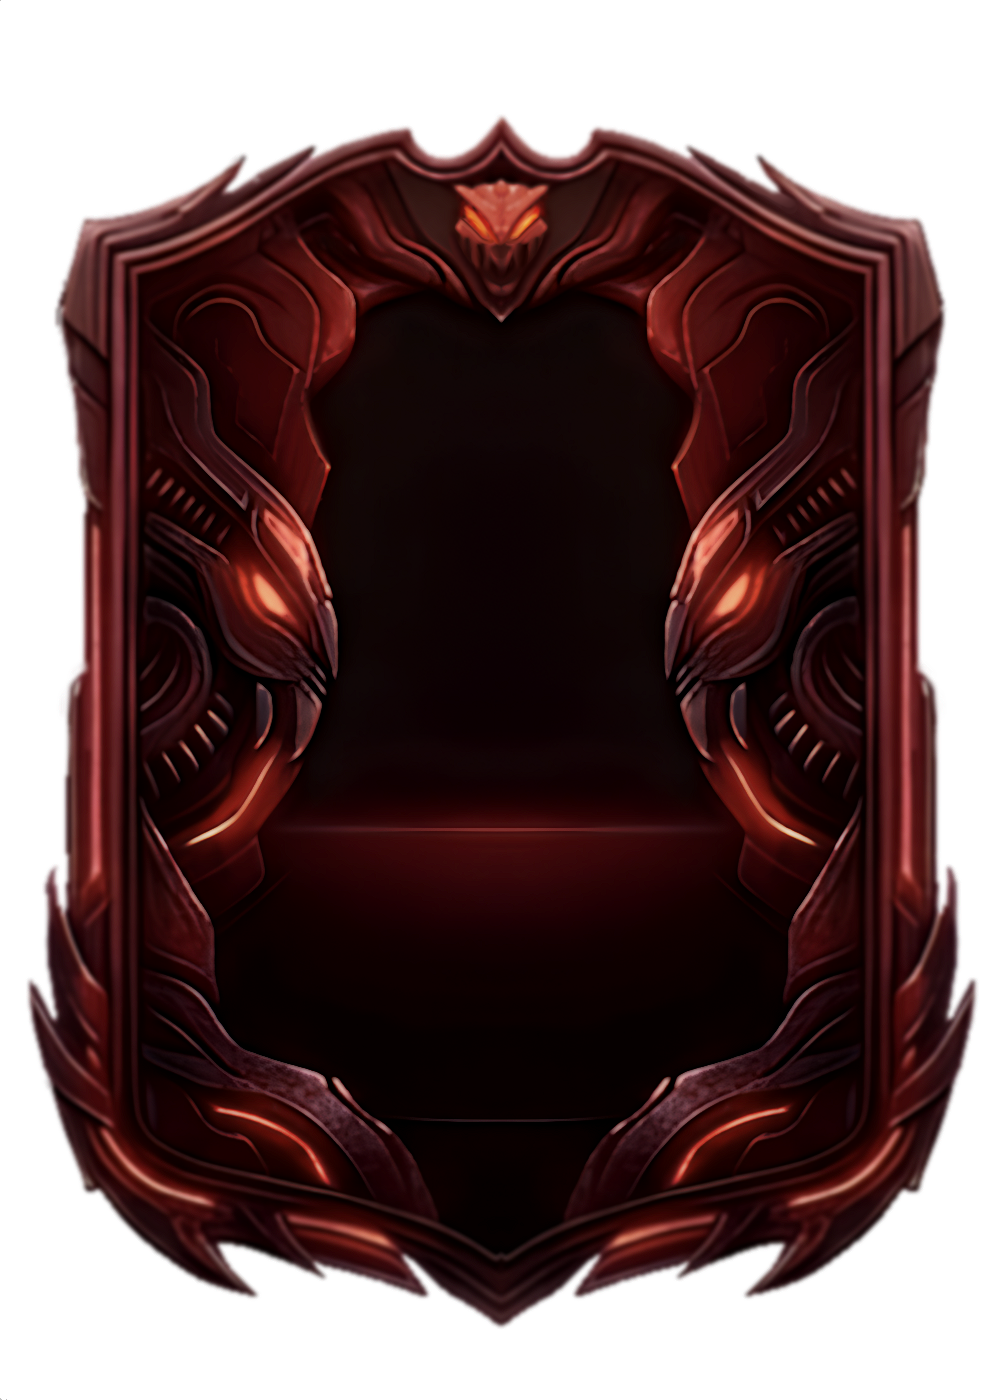
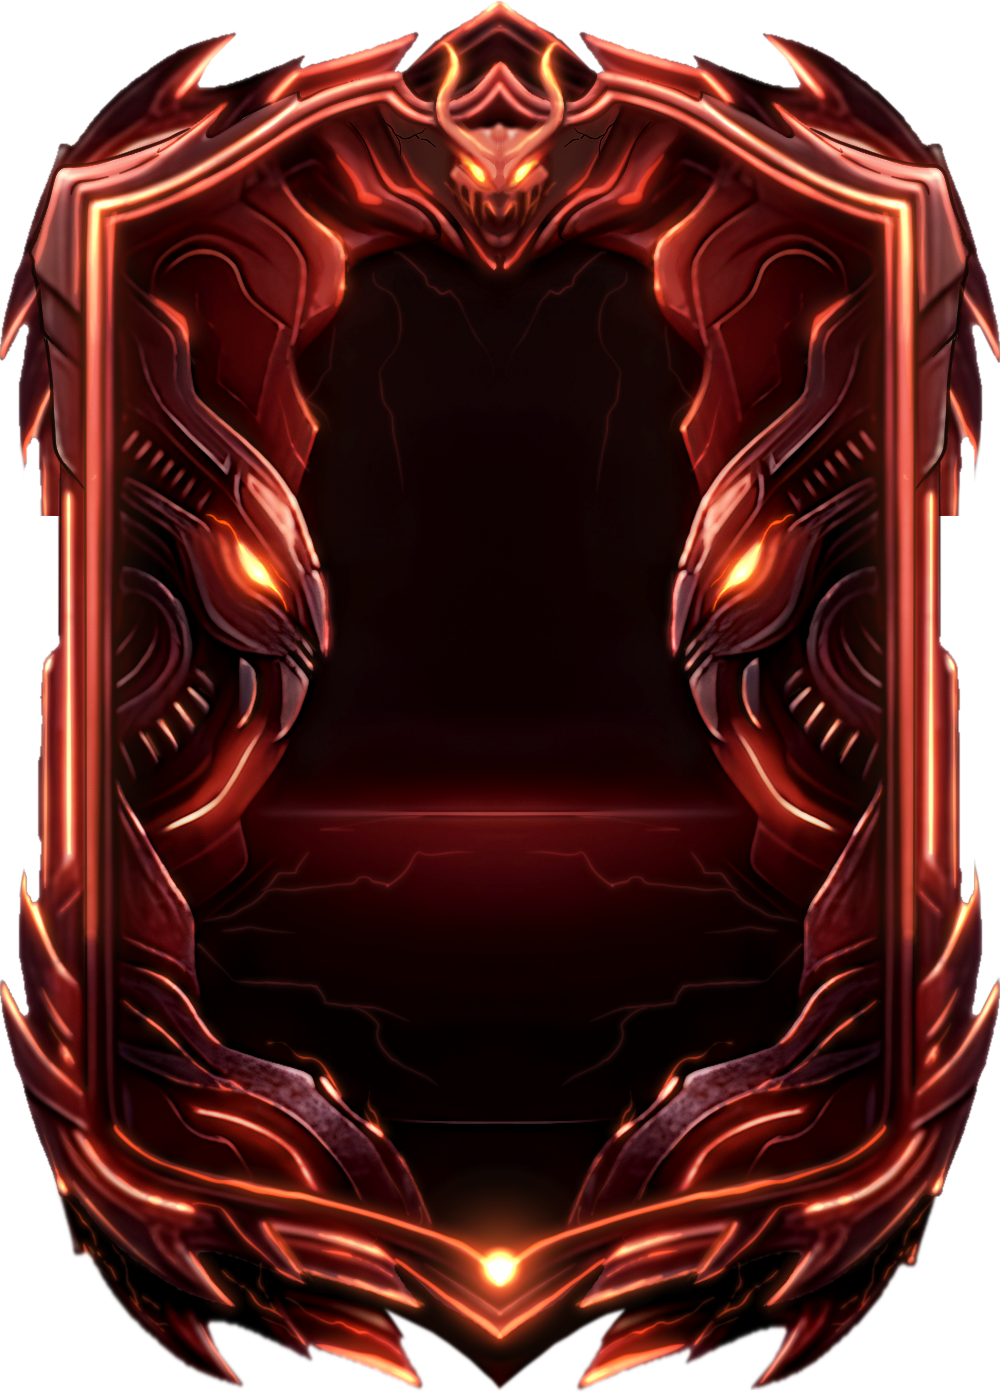
Add files via upload

diff --git a/app.js b/app.js
@@ -134,14 +134,12 @@ function renderProfilo(){
                 <div class="chip ${f.d}">Forma <span class="v">${f.t}</span></div>
                 <div class="chip">Presenza <span class="v num">${P().attPct!=null?P().attPct+'%':'—'}</span></div>
             </div>
-            <button class="pl-cardbtn" onclick="openMyCard()"><i class="fa-solid fa-id-card"></i> La mia card</button>
+            <div style="display:flex;gap:8px;width:100%">
+                <button class="pl-cardbtn" style="flex:1" onclick="openMyCard()"><i class="fa-solid fa-id-card"></i> La mia card</button>
+                ${P().lineup?`<button class="pl-cardbtn" style="flex:1" onclick="openLineup()"><i class="fa-solid fa-people-group"></i> Formazione</button>`:''}
+            </div>
         </div>
-        ${next}${goal}
-        <div class="card"><h3><i class="fa-solid fa-arrows-rotate"></i> Aggiornamenti</h3>
-            <p style="color:var(--muted);margin:.2rem 0 1rem;font-size:.9rem">Quando esce una versione nuova compare un avviso. Qui puoi controllare o applicare un aggiornamento in attesa quando vuoi. I tuoi dati non vengono toccati.</p>
-            <div class="pwa-state" id="pwa-settings-state"></div>
-            <button class="btn btn-ghost" onclick="pwaCheckNow()"><i class="fa-solid fa-magnifying-glass"></i> Cerca aggiornamenti</button></div>`;
-    pwaMarkSettings(!!(swReg&&swReg.waiting));
+        ${next}${goal}`;
 }
 
 function renderStats(){
@@ -255,66 +253,32 @@ function toast(msg,type='success'){
     s.appendChild(el);setTimeout(()=>{el.style.opacity='0';setTimeout(()=>el.remove(),300);},3000);
 }
 
-/* ===== AUTO-UPDATE PWA — banner + card in Profilo. I dati non vengono toccati. ===== */
-const APP_VERSION='v6';
-let swReg=null, pwaRefreshing=false;
-function pwaCSS(){
-  if(document.getElementById('pwa-css')) return;
-  const st=document.createElement('style'); st.id='pwa-css';
-  st.textContent=`
-  #pwa-banner{position:fixed;left:50%;transform:translateX(-50%);bottom:calc(env(safe-area-inset-bottom,0px) + 74px);z-index:9999;display:flex;align-items:center;gap:14px;padding:12px 16px;border-radius:14px;max-width:calc(100% - 24px);background:var(--surface-2,#141a17);color:var(--text,#fff);border:1px solid var(--brand,#22C55E);box-shadow:0 8px 30px rgba(0,0,0,.45);animation:pwaUp .25s ease;}
-  @keyframes pwaUp{from{opacity:0;transform:translate(-50%,10px)}to{opacity:1;transform:translate(-50%,0)}}
-  #pwa-banner .pwa-msg{font-weight:600;font-size:.9rem;display:flex;align-items:center;gap:8px;} #pwa-banner .pwa-msg i{color:var(--brand,#22C55E);}
-  #pwa-banner .pwa-acts{display:flex;gap:8px;margin-left:auto;}
-  #pwa-banner button{border:none;border-radius:9px;padding:8px 12px;font-weight:700;cursor:pointer;font-size:.82rem;}
-  #pwa-banner .pwa-later{background:transparent;color:var(--muted,#9aa);border:1px solid rgba(255,255,255,.18);}
-  #pwa-banner .pwa-now{background:var(--brand,#22C55E);color:#04140a;}
-  @media(min-width:900px){#pwa-banner{bottom:24px;}}
-  .pwa-state{margin-bottom:1rem;font-size:.9rem;} .pwa-ok{color:var(--muted);}
-  .pwa-badge-new{display:inline-block;background:var(--brand,#22C55E);color:#04140a;font-weight:800;border-radius:20px;padding:2px 10px;font-size:.78rem;margin-right:8px;}`;
-  document.head.appendChild(st);
-}
-function pwaShowBanner(){
-  pwaCSS();
-  if(document.getElementById('pwa-banner')) return;
-  const b=document.createElement('div'); b.id='pwa-banner';
-  b.innerHTML='<span class="pwa-msg"><i class="fa-solid fa-arrows-rotate"></i> Nuova versione disponibile</span>'+
-    '<div class="pwa-acts"><button class="pwa-later" onclick="pwaDismissBanner()">Più tardi</button><button class="pwa-now" onclick="pwaApplyUpdate()">Aggiorna ora</button></div>';
-  document.body.appendChild(b);
-  pwaMarkSettings(true);
-}
-function pwaDismissBanner(){ const b=document.getElementById('pwa-banner'); if(b)b.remove(); }
-function pwaApplyUpdate(){ const w=swReg&&swReg.waiting; if(w){ w.postMessage({type:'SKIP_WAITING'}); } else { location.reload(); } }
-function pwaMarkSettings(available){
-  const el=document.getElementById('pwa-settings-state'); if(!el) return;
-  el.innerHTML = available
-    ? '<span class="pwa-badge-new">Aggiornamento pronto</span><button class="btn btn-accent" onclick="pwaApplyUpdate()"><i class="fa-solid fa-arrows-rotate"></i> Aggiorna adesso</button>'
-    : '<span class="pwa-ok">Sei alla versione più recente ('+APP_VERSION+').</span>';
-}
-function pwaCheckNow(){
-  if(!swReg){ toast('Aggiornamenti non disponibili qui'); return; }
-  toast('Controllo aggiornamenti…');
-  swReg.update().then(()=>setTimeout(()=>{
-    if(swReg.waiting){ pwaShowBanner(); pwaMarkSettings(true); toast('Aggiornamento trovato'); }
-    else { pwaMarkSettings(false); toast('Sei già aggiornato'); }
-  },900)).catch(()=>toast('Controllo non riuscito','danger'));
-}
-if('serviceWorker' in navigator){
-  navigator.serviceWorker.addEventListener('controllerchange',()=>{ if(pwaRefreshing) return; pwaRefreshing=true; location.reload(); });
-  window.addEventListener('load',()=>{
-    navigator.serviceWorker.register('sw.js',{updateViaCache:'none'}).then(reg=>{
-      swReg=reg;
-      if(reg.waiting) pwaShowBanner();
-      reg.addEventListener('updatefound',()=>{ const nw=reg.installing; if(!nw) return;
-        nw.addEventListener('statechange',()=>{ if(nw.state==='installed' && navigator.serviceWorker.controller) pwaShowBanner(); }); });
-      pwaMarkSettings(!!reg.waiting);
-    }).catch(()=>{});
-  });
-}
-
 renderAll();
 if(S.onboard) showOnboarding();
 idbGet('self').then(d=>{ if(d){ PL_PHOTO=d; renderProfilo(); } });
+if('serviceWorker' in navigator){
+  window.addEventListener('load',()=>{
+    navigator.serviceWorker.register('sw.js').then(reg=>{
+      reg.addEventListener('updatefound',()=>{
+        const nw=reg.installing;
+        if(!nw)return;
+        nw.addEventListener('statechange',()=>{
+          if(nw.state==='installed' && navigator.serviceWorker.controller){
+            showUpdateBanner();
+          }
+        });
+      });
+    }).catch(()=>{});
+  });
+}
+function showUpdateBanner(){
+  if(document.getElementById('upd-banner'))return;
+  const b=document.createElement('div');
+  b.id='upd-banner';
+  b.style.cssText='position:fixed;left:12px;right:12px;bottom:calc(var(--navh) + 12px + env(safe-area-inset-bottom));z-index:60;background:var(--brand);color:#04210f;padding:12px 14px;border-radius:14px;display:flex;align-items:center;gap:10px;box-shadow:var(--shadow);font-weight:700;';
+  b.innerHTML='<i class="fa-solid fa-rotate"></i> Nuovo aggiornamento disponibile <button style="margin-left:auto;background:#04210f;color:#fff;border:none;padding:8px 12px;border-radius:10px;font-weight:800;cursor:pointer" onclick="location.reload()">Aggiorna</button>';
+  document.body.appendChild(b);
+}
 
 /* ---------- creazione / modifica profilo a mano ---------- */
 function scaffold(sport){ sport=(sport&&SPORTS_P[sport])?sport:'pallavolo';
@@ -591,26 +555,89 @@ function confirmPhoto(){
   toast('Foto aggiornata');
 }
 function removePhoto(){ PL_PHOTO=null; idbDel('self'); renderProfilo(); if(document.querySelector('.fc')) openMyCard(); toast('Foto rimossa'); }
+/* ---------- Card a tier (layout ufficiale, stesso renderer del coach) ---------- */
+const CARD_LAYOUTS={
+  goat:{photo:{show:1,x:50,y:23.5,w:86,h:47},logo:{show:1,x:78,y:20.5,w:22.5},overall:{show:1,x:18.5,y:20,size:11,color:'#fff1b3',align:'center'},role:{show:1,x:18.5,y:29,size:4.6,color:'#ffcc02',align:'center'},number:{show:1,x:77.5,y:28.5,size:6.2,color:'#ffcc02',align:'center'},name:{show:1,x:50,y:56.5,size:6.4,color:'#fff7bd',align:'center'},attrs:{show:1,x:50,y:67.5,size:6.4,color:'#fff2d0'},tierName:{show:1,x:50,y:85,size:5.2,color:'#ff6a00',align:'center'}},
+  mythic:{photo:{show:1,x:50,y:31,w:66,h:42.5},logo:{show:1,x:79.5,y:19,w:22},overall:{show:1,x:19,y:18,size:12,color:'#fcdbff',align:'center'},role:{show:1,x:19,y:24.5,size:4.6,color:'#ffffff',align:'center'},number:{show:1,x:79,y:26.5,size:6.8,color:'#ffedfe',align:'center'},name:{show:1,x:50,y:57,size:7.2,color:'#ffd7ff',align:'center'},attrs:{show:1,x:50,y:72,size:6.6,color:'#ffffff'},tierName:{show:1,x:50,y:88.5,size:4.2,color:'#efcaff',align:'center'}},
+  diamond:{photo:{show:1,x:50,y:30,w:66,h:44},logo:{show:1,x:81.5,y:22,w:22.5},overall:{show:1,x:17,y:21,size:12,color:'#12fffe',align:'center'},role:{show:1,x:17.5,y:29.5,size:5.4,color:'#ffffff',align:'center'},number:{show:1,x:81.5,y:30,size:6.2,color:'#ffffff',align:'center'},name:{show:1,x:50,y:57.5,size:7.4,color:'#7bf7ff',align:'center'},attrs:{show:1,x:50,y:73,size:7.8,color:'#ffffff'},tierName:{show:1,x:50,y:88.5,size:4.2,color:'#93e3fd',align:'center'}},
+  gold:{photo:{show:1,x:50,y:26.5,w:66,h:49},logo:{show:1,x:82.5,y:19.5,w:22},overall:{show:1,x:17.5,y:18.5,size:11,color:'#ffffff',align:'center'},role:{show:1,x:17,y:28,size:6.2,color:'#fcfcff',align:'center'},number:{show:1,x:81.5,y:27.5,size:6.8,color:'#ffffff',align:'center'},name:{show:1,x:50,y:59.5,size:7,color:'#ffffff',align:'center'},attrs:{show:1,x:50,y:74.5,size:7.8,color:'#ffffff'},tierName:{show:1,x:50,y:91,size:4.6,color:'#c49e00',align:'center'}},
+  silver:{photo:{show:1,x:50,y:29.5,w:72,h:44},logo:{show:1,x:82.5,y:19.5,w:22},overall:{show:1,x:17.5,y:18.5,size:13.6,color:'#ffffff',align:'center'},role:{show:1,x:17,y:28,size:5.2,color:'#ffffff',align:'center'},number:{show:1,x:82,y:28,size:6.4,color:'#ffffff',align:'center'},name:{show:1,x:50,y:58.5,size:7,color:'#ffffff',align:'center'},attrs:{show:1,x:50,y:73.5,size:7.8,color:'#ffffff'},tierName:{show:1,x:50,y:90,size:4,color:'#d6d6d6',align:'center'}}
+};
+const TIER_LABEL={goat:'GOAT',mythic:'MYTHIC',diamond:'DIAMOND',gold:'GOLD',silver:'SILVER'};
+const TIER_FRAME_CANDIDATES={goat:['goat.png','Goat_.png','Goat.png','goat_.png'],mythic:['mythic.png','Mythic_.png','Mythic.png','mythic_.png'],diamond:['diamond.png','Diamond_.png','Diamond.png','diamond_.png'],gold:['gold.png','Gold_.png','Gold.png','gold_.png'],silver:['silver.png','Silver_.png','Silver.png','silver_.png']};
+function ownLineupEntry(){
+  const lu=P().lineup, p=P().p; if(!lu||!Array.isArray(lu.slots))return null;
+  return lu.slots.find(s=>p.number!=null && s.number===p.number) || lu.slots.find(s=>s.playerName===p.name) || null;
+}
+function myTier(){
+  const e=ownLineupEntry(); if(e&&e.tier&&CARD_LAYOUTS[e.tier])return e.tier;
+  const o=overallOf(); if(o==null)return 'silver';
+  if(o>=90)return 'goat'; if(o>=80)return 'mythic'; if(o>=70)return 'diamond'; if(o>=55)return 'gold'; return 'silver';
+}
+function myOverallForCard(){ const e=ownLineupEntry(); if(e&&e.overall!=null)return e.overall; return overallOf(); }
+function tierFrameImgTag(tier,cls){
+  const list=TIER_FRAME_CANDIDATES[tier]||TIER_FRAME_CANDIDATES.silver;
+  return `<img class="${cls}" src="cards/${list[0]}" onerror="this.onerror=null;this.src='cards/${list[1]}'">`;
+}
+function renderTierCardHTML(tier,photo,name,number,role,overall,team){
+  const L=CARD_LAYOUTS[tier]||CARD_LAYOUTS.silver;
+  const textEl=(k,val,extra='')=>{ const c=L[k]; if(!c||!c.show)return ''; return `<div style="position:absolute;left:${c.x}%;top:${c.y}%;transform:translate(${c.align==='center'?'-50%':'0'},-50%);font-weight:800;font-size:${c.size}cqw;color:${c.color};white-space:nowrap;text-align:${c.align||'left'}">${val}</div>${extra}`; };
+  const photoEl = L.photo && L.photo.show ? `<div style="position:absolute;left:${L.photo.x}%;top:${L.photo.y}%;width:${L.photo.w}%;height:${L.photo.h}%;transform:translate(-50%,-50%);overflow:hidden;border-radius:8px">${photo?`<img src="${photo}" style="width:100%;height:100%;object-fit:cover">`:`<div style="width:100%;height:100%;display:flex;align-items:center;justify-content:center;background:rgba(255,255,255,.08);font-weight:800;font-size:22cqw;color:rgba(255,255,255,.5)">${initialsOf(name)}</div>`}</div>`:'';
+  const attrsEl = L.attrs && L.attrs.show ? `<div style="position:absolute;left:${L.attrs.x}%;top:${L.attrs.y}%;transform:translate(-50%,-50%);font-size:${L.attrs.size}cqw;color:${L.attrs.color};font-weight:700;white-space:nowrap">${roleAbbr(role)}</div>`:'';
+  return `<div class="tiercard" style="position:relative;width:100%;aspect-ratio:5/7;container-type:inline-size;border-radius:14px;overflow:hidden">
+    ${tierFrameImgTag(tier,'tc-frame')}
+    <style>.tc-frame{position:absolute;inset:0;width:100%;height:100%;object-fit:contain;z-index:1}</style>
+    ${photoEl}
+    ${textEl('overall',overall!=null?overall:'—')}
+    ${textEl('number','#'+(number||''))}
+    ${attrsEl}
+    ${textEl('name',name||'')}
+    ${textEl('tierName',TIER_LABEL[tier]||'')}
+  </div>`;
+}
 function openMyCard(){
   plMediaCSS();
-  const p=P().p, ovr=overallOf(), sport=sportOf();
-  const pal={pallavolo:['#F6D365','#E2A13C'],calcio:['#7BE0A3','#34A853'],basket:['#FDBA74','#F97316']}[sport]||['#F6D365','#E2A13C'];
-  const ic={pallavolo:'🏐',calcio:'⚽',basket:'🏀'}[sport]||'🏅';
+  const p=P().p, sport=sportOf(), tier=myTier(), ovr=myOverallForCard();
   const cells=(P().season.cells||[]).slice(0,4);
-  const photo=PL_PHOTO?`<img src="${PL_PHOTO}">`:`<div class="ini">${initialsOf(p.name)}</div>`;
   const stats=cells.length?cells.map(c=>`<div class="st"><span>${c[0]}</span> ${c[1]}${c[2]||''}</div>`).join('')
      :`<div class="st"><span>Media voto</span> ${P().season.avgVoto?P().season.avgVoto.toFixed(1):'—'}</div><div class="st"><span>Presenza</span> ${P().attPct!=null?P().attPct+'%':'—'}</div>`;
   openModal(`<div class="modal-head"><h3><i class="fa-solid fa-id-card" style="color:var(--brand)"></i> La mia card</h3>
       <button class="modal-close" onclick="closeModal()"><i class="fa-solid fa-xmark"></i></button></div>
     <div class="modal-body fc-wrap">
-      <div class="fc" style="--fc-a:${pal[0]};--fc-b:${pal[1]}">
-        <div class="top"><div class="ovr"><b>${ovr||'—'}</b><span>${roleAbbr(p.role)}</span></div><div class="sporticon">${ic}</div></div>
-        <div class="photo">${photo}</div>
-        <div class="nm">${p.name||'Il tuo nome'} <span style="opacity:.55">#${p.number||''}</span></div>
-        <div class="tm">${P().team||''}</div>
-        <div class="stats">${stats}</div>
-      </div>
+      ${renderTierCardHTML(tier,PL_PHOTO,p.name,p.number,p.role,ovr,P().team)}
+      <div class="stats" style="display:flex;flex-wrap:wrap;gap:8px;margin-top:14px">${stats}</div>
       <button class="btn btn-accent" style="width:100%;margin-top:16px" onclick="pickPhoto()"><i class="fa-solid fa-camera"></i> ${PL_PHOTO?'Cambia foto':'Aggiungi la tua foto'}</button>
       ${PL_PHOTO?'<button class="btn btn-ghost" style="width:100%;margin-top:8px" onclick="removePhoto()"><i class="fa-solid fa-trash"></i> Rimuovi foto</button>':''}
+    </div>`);
+}
+
+/* ---------- Formazione consigliata (ricevuta dal mister) ---------- */
+function openLineup(){
+  const lu=P().lineup;
+  if(!lu||!Array.isArray(lu.slots)||!lu.slots.length){
+    openModal(`<div class="modal-head"><h3><i class="fa-solid fa-people-group" style="color:var(--brand)"></i> Formazione consigliata</h3>
+      <button class="modal-close" onclick="closeModal()"><i class="fa-solid fa-xmark"></i></button></div>
+      <div class="modal-body"><p style="opacity:.7">Il mister non ha ancora condiviso una formazione consigliata.</p></div>`);
+    return;
+  }
+  const p=P().p, myNum=p.number;
+  const tokens=lu.slots.map(s=>{
+    const mine = (myNum!=null && s.number===myNum) || s.playerName===p.name;
+    const ovrTxt = lu.showOverall ? (s.overall!=null ? s.overall : 'NC') : '';
+    return `<div style="position:absolute;left:${(s.x*100).toFixed(1)}%;top:${(s.y*100).toFixed(1)}%;transform:translate(-50%,-50%);text-align:center">
+      <div style="width:34px;height:34px;border-radius:50%;display:flex;align-items:center;justify-content:center;font-weight:800;font-size:12px;
+        background:${mine?'var(--brand)':'rgba(255,255,255,.12)'};color:${mine?'#04210f':'#fff'};border:2px solid ${mine?'var(--brand)':'rgba(255,255,255,.35)'};">${s.number!=null?s.number:''}</div>
+      <div style="font-size:10px;margin-top:2px;color:${mine?'var(--brand)':'rgba(255,255,255,.75)'};font-weight:${mine?'800':'600'};white-space:nowrap">${s.playerName||s.ruolo_o_zona||''}</div>
+      ${lu.showOverall?`<div style="font-size:9px;color:rgba(255,255,255,.55)">${ovrTxt}</div>`:''}
+    </div>`;
+  }).join('');
+  openModal(`<div class="modal-head"><h3><i class="fa-solid fa-people-group" style="color:var(--brand)"></i> Formazione consigliata</h3>
+    <button class="modal-close" onclick="closeModal()"><i class="fa-solid fa-xmark"></i></button></div>
+    <div class="modal-body">
+      <p style="opacity:.65;font-size:13px;margin-bottom:10px">Scelti in base alla media voto: per ogni ruolo gioca chi rende di più.</p>
+      <div style="position:relative;width:100%;aspect-ratio:2/3;border-radius:12px;overflow:hidden">
+        ${courtSVG(lu.sport||sportOf())}
+        ${tokens}
+      </div>
     </div>`);
 }

diff --git a/sw.js b/sw.js
@@ -1,12 +1,7 @@
-/* Player Manager - Service Worker
-   Aggiornamento controllato: il nuovo SW resta in attesa finché non si conferma.
-   skipWaiting solo su richiesta (messaggio SKIP_WAITING dalla pagina).
-   I dati utente non vengono mai toccati. */
-const CACHE_VERSION='vtm-player-v7';
+const CACHE_VERSION='vtm-player-v4';
 const APP_SHELL=['./','./index.html','./app.js','./manifest.json','./icons/logo-badge.png','./icons/icon-192.png','./icons/icon-512.png','./icons/apple-touch-icon.png','./icons/favicon-32.png'];
-self.addEventListener('install',e=>{e.waitUntil(caches.open(CACHE_VERSION).then(c=>c.addAll(APP_SHELL)));});
-self.addEventListener('activate',e=>{e.waitUntil(caches.keys().then(k=>Promise.all(k.filter(x=>x!==CACHE_VERSION).map(x=>caches.delete(x)))).then(()=>self.clients.claim()));});
-self.addEventListener('message',e=>{if(e.data&&e.data.type==='SKIP_WAITING')self.skipWaiting();});
+self.addEventListener('install',e=>{e.waitUntil(caches.open(CACHE_VERSION).then(c=>c.addAll(APP_SHELL)));self.skipWaiting();});
+self.addEventListener('activate',e=>{e.waitUntil(caches.keys().then(k=>Promise.all(k.filter(x=>x!==CACHE_VERSION).map(x=>caches.delete(x)))));self.clients.claim();});
 self.addEventListener('fetch',e=>{const r=e.request;if(r.method!=='GET')return;const u=new URL(r.url);
   if(u.origin===self.location.origin){e.respondWith(caches.match(r).then(c=>c||fetch(r).then(res=>{const cp=res.clone();caches.open(CACHE_VERSION).then(ch=>ch.put(r,cp));return res;}).catch(()=>caches.match('./index.html'))));}
   else{e.respondWith(caches.open(CACHE_VERSION).then(ch=>ch.match(r).then(c=>{const n=fetch(r).then(res=>{ch.put(r,res.clone());return res;}).catch(()=>c);return c||n;})));}});
